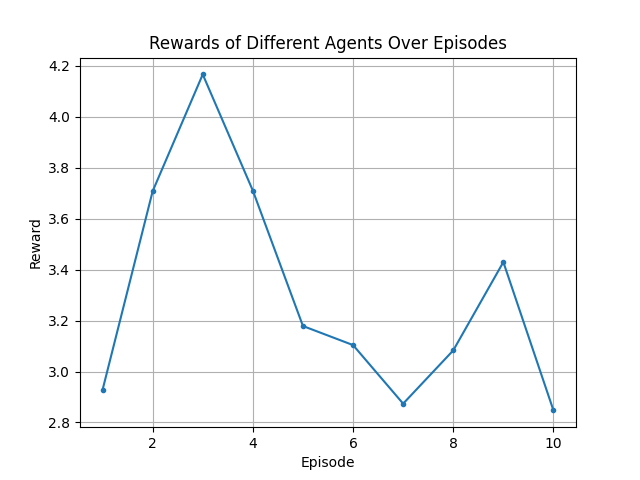
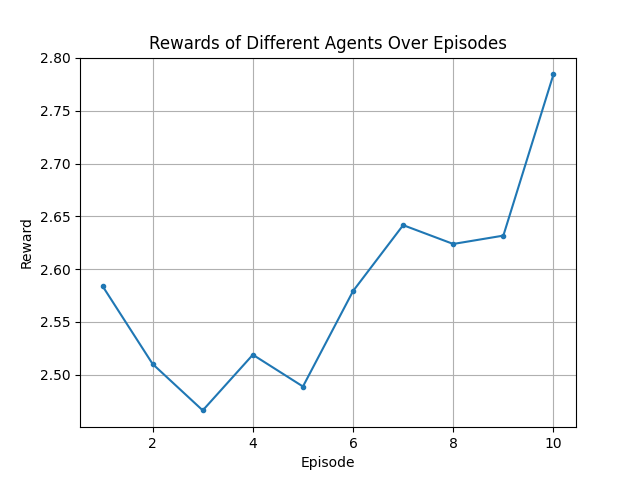
update

diff --git a/GridNavigationEnv.py b/GridNavigationEnv.py
@@ -279,10 +279,10 @@ class GridNavigationEnv(gym.Env):
                 distance = self.calculate_distance(self.agents[a_id - 1], self.destination)
                 self.distance_dict[a_id].append(distance)  # Record the distance in dict
                 if distance == 0:
-                    self.rewards[a_id - 1] = 1  # Reward for reaching destination
+                    self.rewards[a_id - 1] = 15*self.L  # Reward for reaching destination
                     self.agents_id_list.remove(a_id)
                 else:
-                    self.rewards[a_id - 1] = self.L/distance # Penalty for each move
+                    self.rewards[a_id - 1] = 1.5*self.L/distance # Penalty for each move
 
         self.steps += 1
         done = all(self.agents[agent_id - 1] == self.destination for agent_id in self.agents_id_list)
